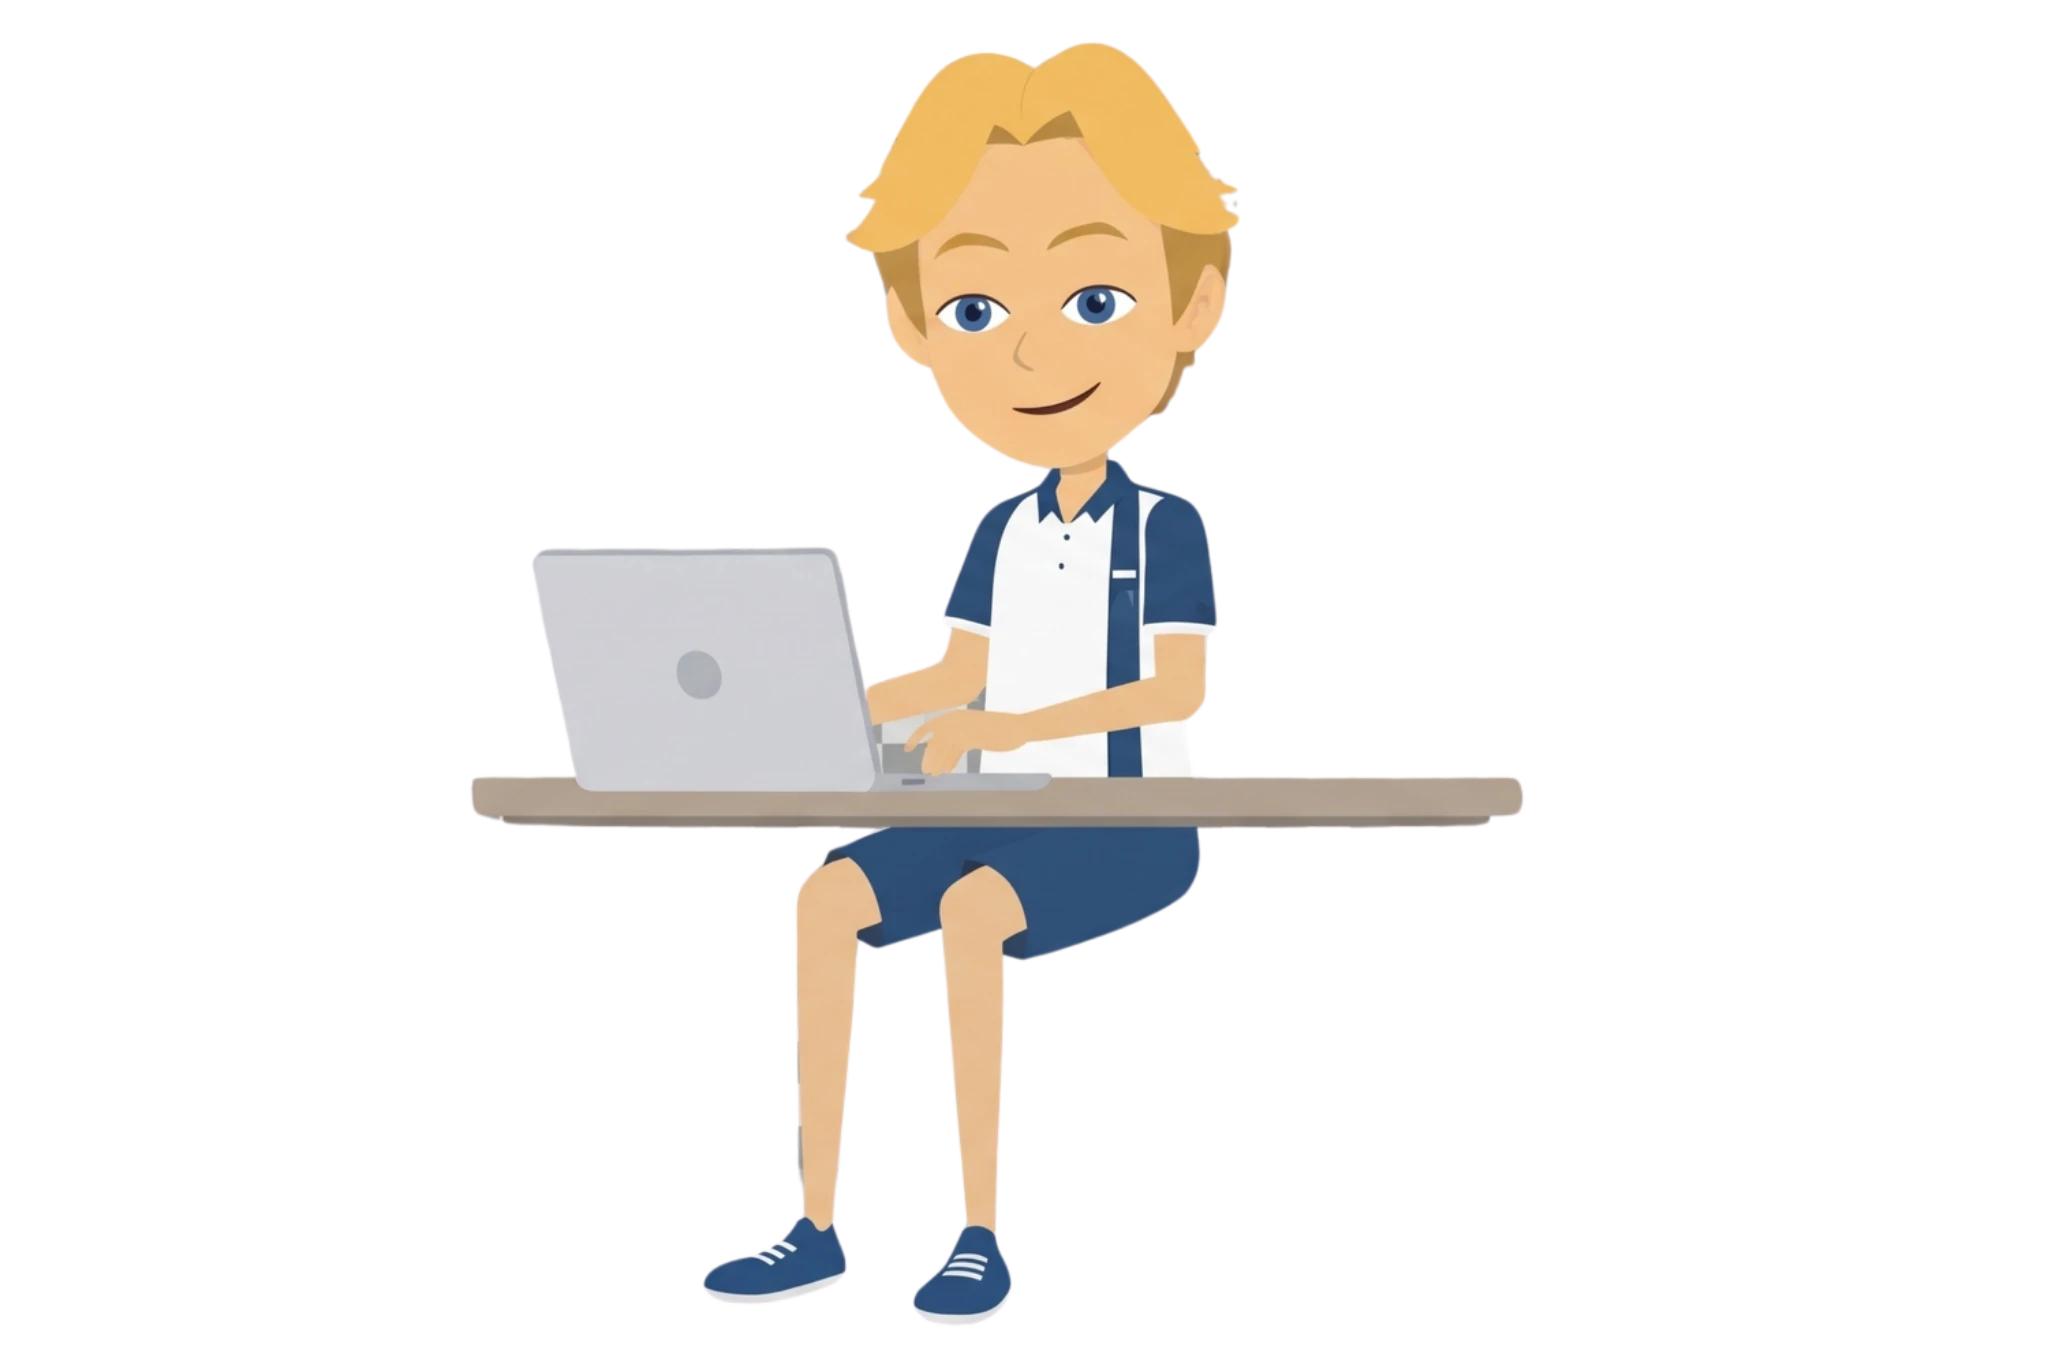
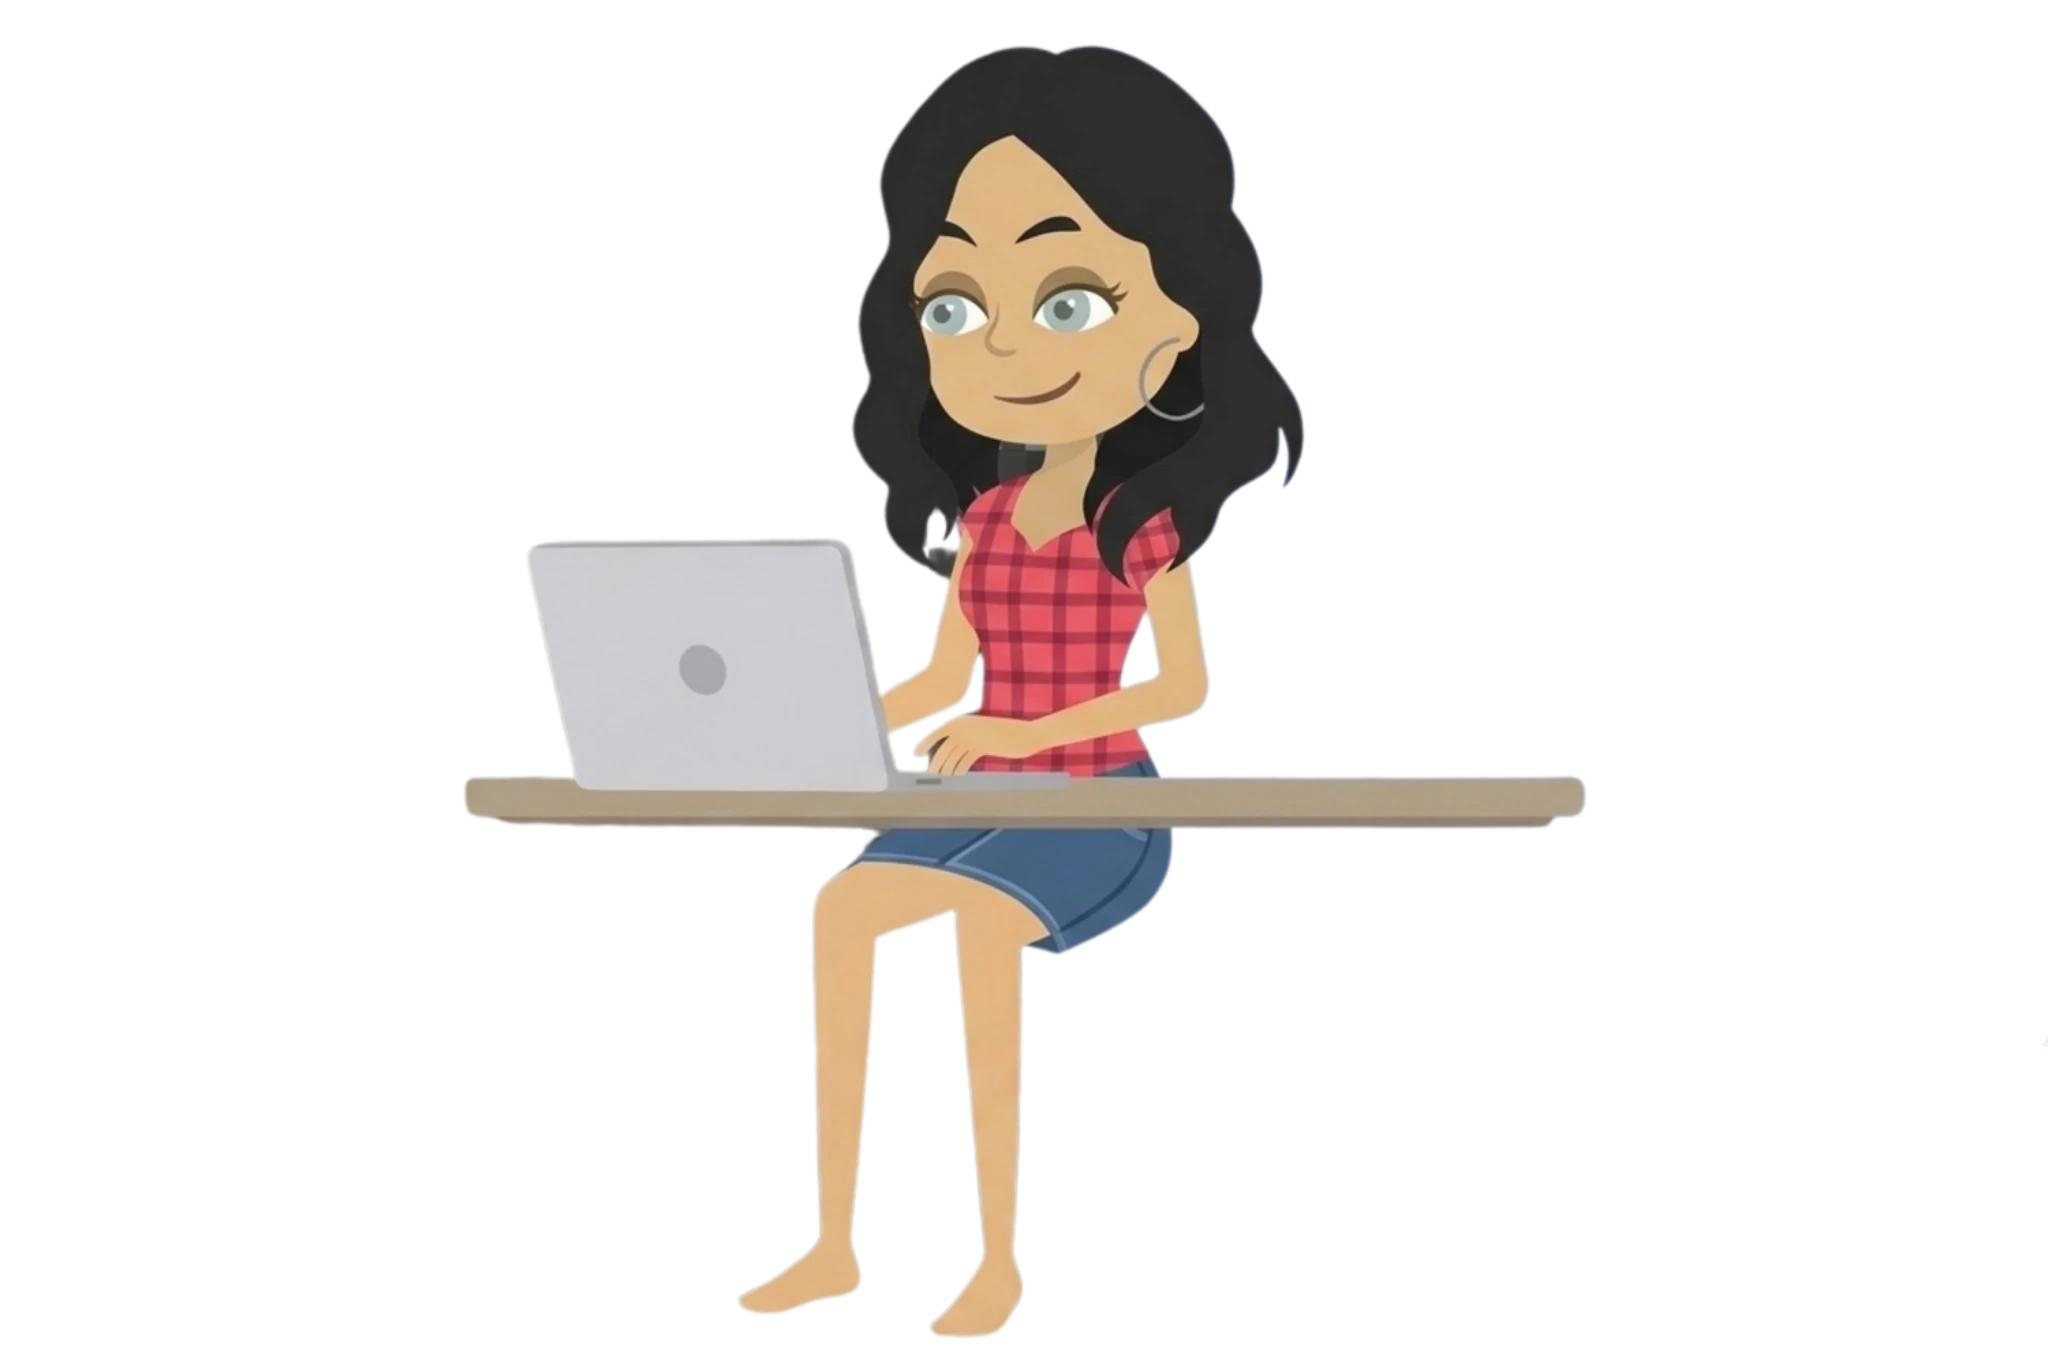
Save latest work

Changed region(s): [[0.25, 0.0308, 0.6562, 0.9846], [0.7188, 0.5538, 0.7812, 0.6154]]

diff --git a/lib/academy/lessons/content/design-shell.ts b/lib/academy/lessons/content/design-shell.ts
@@ -79,7 +79,7 @@ const DESIGN_SHELL_SCREENS: ScreenConfig[] = [
     promptLabel: "Pick the word that fits",
     authoring: { pedagogicalStage: "hook", gameArchetype: "word-drop" },
     ...shellIllustration(0),
-    ...AUTO_READY,
+    advance: { mode: "on-complete" },
   },
   // Pedagogical role: Core concept
   {
